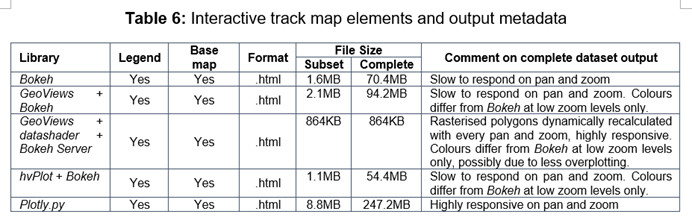
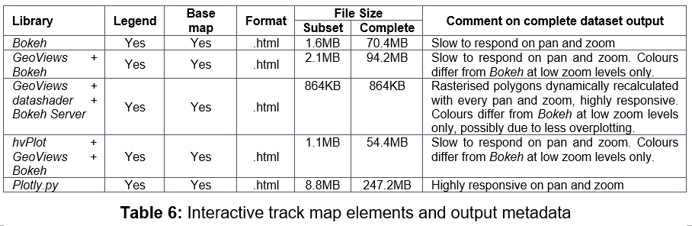
Make all plots 300dpi JPGs, README fixes

diff --git a/README.md b/README.md
@@ -32,7 +32,7 @@ The table below summarises the long-list and indicates short-listed libraries in
 
 | **Static** | **Interactive** |
 |--|--|
-| (1) ***GeoPandas***, (2) ***cartopy***, (3) ***geoplot***, (4) ***datashader*** (for illustration only), (5) *GeoViews* + *mpl* (apparently no legend support yet), (6) ***Altair*** (no basemap support yet). | (1) ***Bokeh***, (2) ***Plotly.py***, (3) ***GeoViews+Bokeh***, (4) ***GeoViews+datashader+Bokeh***, (5) ***hvPlot+Bokeh***, (6) *Altair* (no *Vega-Lite* support for interactivity with geoshapes yet), (7) *folium*, (8) *mplleaflet*, (9) *geoplotlib*. |
+| (1) ***GeoPandas***, (2) ***cartopy***, (3) ***geoplot***, (4) ***datashader*** (for illustration only), (5) *GeoViews* + *mpl* (apparently no legend support yet), (6) ***Altair*** (no basemap support yet). | (1) ***Bokeh***, (2) ***Plotly.py***, (3) ***GeoViews+Bokeh***, (4) ***GeoViews+datashader+Bokeh***, (5) ***hvPlot+GeoViews+Bokeh***, (6) *Altair* (no *Vega-Lite* support for interactivity with geoshapes yet), (7) *folium*, (8) *mplleaflet*, (9) *geoplotlib*. |
 
 
 
@@ -76,7 +76,7 @@ The short-listed libraries were then compared along these indicators:
 |*GeoPandas + Matplotlib*|`fig.canvas.draw()` (pro-forma only,<br>no effect on behaviour or performance)|*Bokeh*|`bokeh.io.output.output_notebook()`<br>…<br>`bokeh.io.show(plot)`|
 |*Cartopy + Matplotlib*|`fig.canvas.draw()`|GeoViews + Bokeh*|`bokeh.plotting.show(gv.render(plot))`|
 |*geoplot + Matplotlib* |`matplotlib.pyplot.gcf()`|*GeoViews+ datashader + Bokeh Server*|*None*|
-|*Altair + Vega-Lite*|`altair.renderers.enable('mimetype')`<br>...<br> `IPython.display.display(chart)`|*hvPlot + HoloViews + Bokeh*|`IPython.display.display(plot)`|
+|*Altair + Vega-Lite*|`altair.renderers.enable('mimetype')`<br>...<br> `IPython.display.display(chart)`|*hvPlot + GeoViews + Bokeh*|`IPython.display.display(plot)`|
 |*datashader*|*None*|*Plotly*|*None*|
 
 
